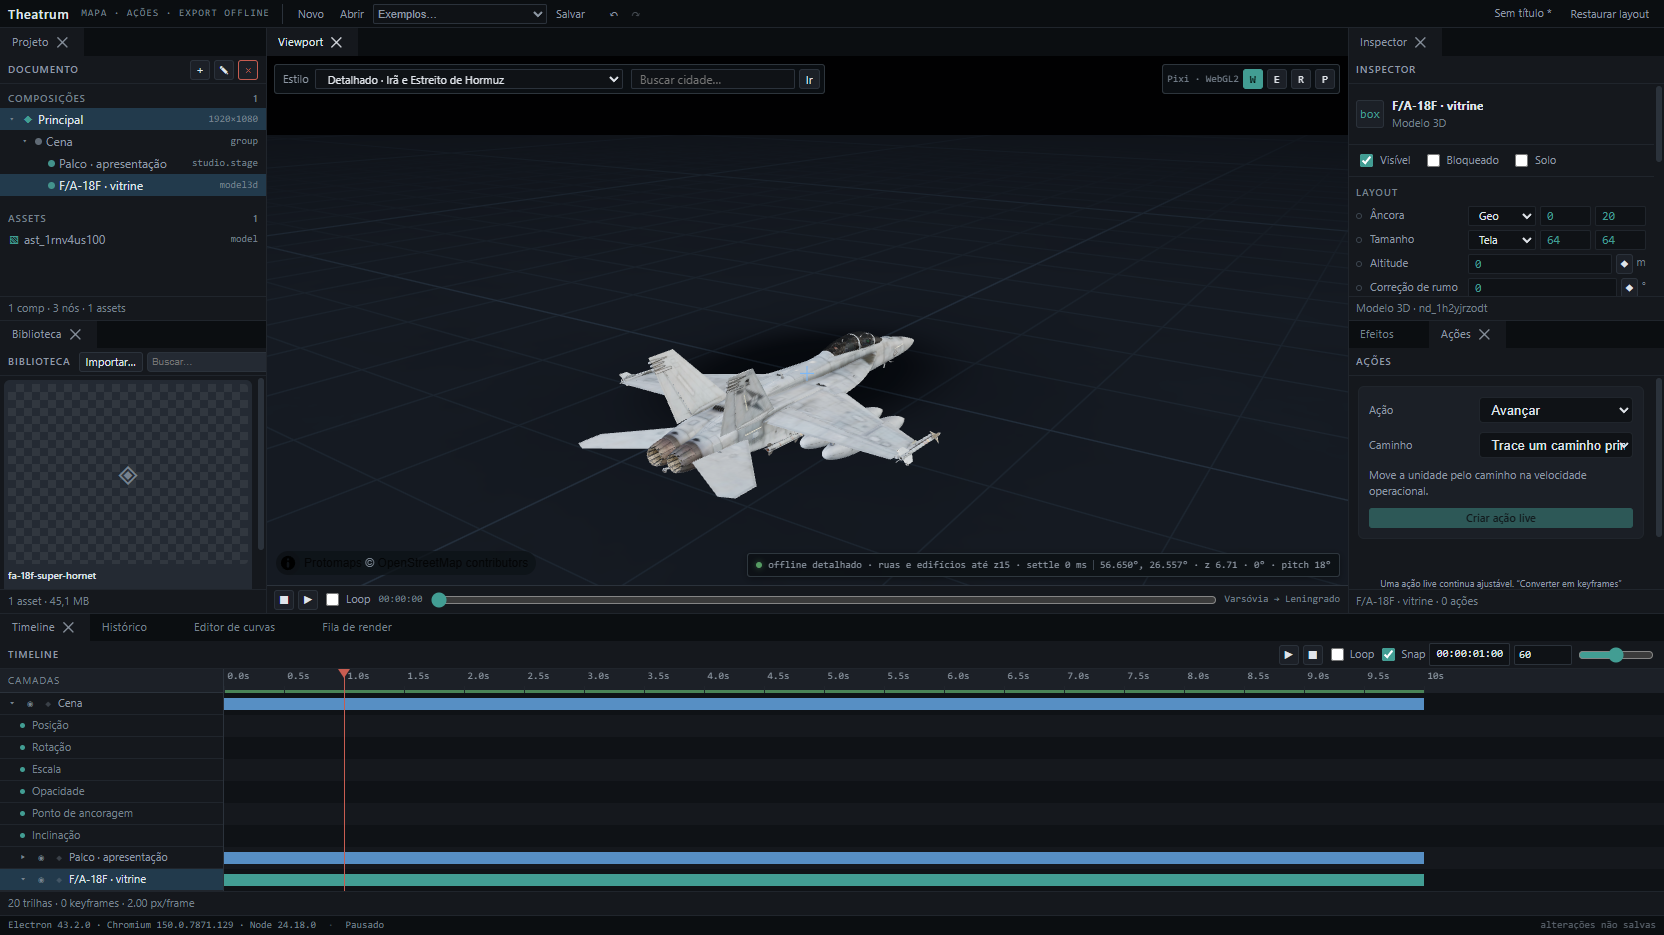
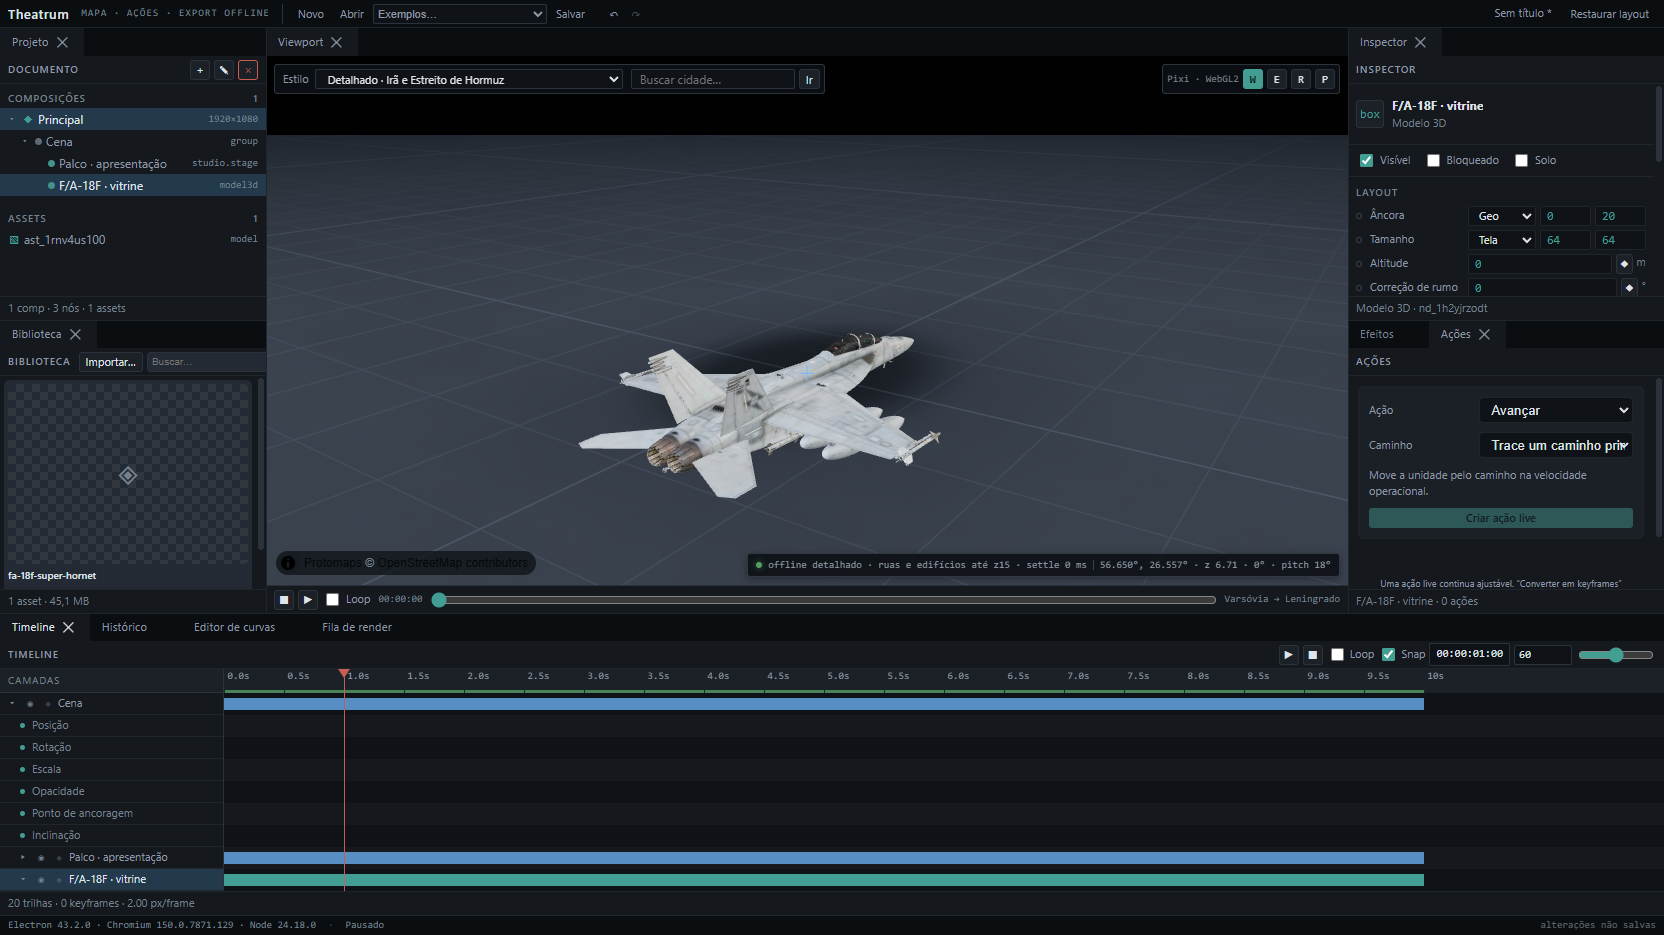
Palco: piso de tom medio, senao a sombra de contato nao le
A sombra do commit anterior funcionava e continuava invisivel. A causa nao era
ela: era o piso.

O padrao #141a22 veio da estetica do mapa, onde o chao e fundo. Luminancia ~10%.
Sombra funciona por contraste, e num piso quase preto nao sobra para onde
escurecer — medido, a sombra escurecia 70.437 px (12,31% da tela) com queda
maxima de 75 em 765, e ainda assim nao se distinguia do ruido do proprio piso.

Vitrine de equipamento nao e fundo de mapa: ali o piso e a superficie em que o
objeto se apoia, e precisa de tom para a sombra assentar nele. Piso #39424f,
grade #5d6f84, fundo #0d1218 — os valores foram escolhidos ao vivo, com o F-18 no
palco, e a poca eliptica passa a aparecer alongada no eixo da fuselagem, com o
halo de penumbra em volta.

Os tres fallbacks duplicados em `studio-grid.ts` e `studio-scene.ts` foram
atualizados junto: default divergente de fallback e o tipo de erro que aparece
so no caminho em que a prop falta.

Changed region(s): [[0.1562, 0.1241, 0.8125, 0.6513], [0.1562, 0.031, 0.1875, 0.062], [0.0, 0.6513, 0.0312, 0.6824]]

diff --git a/apps/editor/src/panels/viewport/studio-grid.ts b/apps/editor/src/panels/viewport/studio-grid.ts
@@ -77,7 +77,7 @@ uniform float uShadowSoftness[${MAX_SHADOWS}];
  * Um RawShaderMaterial escreve no framebuffer sem nenhuma injeção do three: nem
  * tone mapping, nem conversão de espaço de cor. Mas as cores CHEGAM convertidas,
  * porque THREE.Color converte de sRGB para linear ao ler um hex. Sem esta função
- * o chão #141a22 saía como 2/3/4 em vez de 20/26/34 — quase preto — e a grade,
+ * o chão #39424f saía como 2/3/4 em vez de 20/26/34 — quase preto — e a grade,
  * que é uma mistura entre duas cores já escuras, desaparecia junto. O bug não
  * gera erro nenhum: o desenho está lá, só ilegível.
  *
@@ -279,9 +279,9 @@ export function createStudioGrid(): StudioGrid {
   const uniforms = {
     uInverseViewProjection: { value: new THREE.Matrix4() },
     uCameraPosition: { value: new THREE.Vector3() },
-    uFloorColor: { value: new THREE.Color("#141a22") },
-    uGridColor: { value: new THREE.Color("#2f4256") },
-    uHorizonColor: { value: new THREE.Color("#0b0f14") },
+    uFloorColor: { value: new THREE.Color("#39424f") },
+    uGridColor: { value: new THREE.Color("#5d6f84") },
+    uHorizonColor: { value: new THREE.Color("#0d1218") },
     uSpacing: { value: 5 },
     uOpacity: { value: 0.55 },
     uFade: { value: 120 },

diff --git a/packages/scene-graph/src/builtin-node-types.ts b/packages/scene-graph/src/builtin-node-types.ts
@@ -1307,9 +1307,17 @@ export const STUDIO_STAGE_NODE_TYPE = defineNodeType({
     azimuthDeg: animatable(35),
     elevationDeg: animatable(14),
     fovDeg: animatable(38),
-    background: animatable("#0b0f14ff"),
-    floor: animatable("#141a22ff"),
-    gridColor: animatable("#2f4256ff"),
+    background: animatable("#0d1218ff"),
+    // Piso de tom médio, não o quase-preto do fundo do mapa.
+    //
+    // O padrão anterior (#141a22, luminância ~10%) foi herdado da estética do
+    // mapa e tornava a sombra de contato invisível: sombra funciona por
+    // contraste, e num piso já quase preto não sobra para onde escurecer.
+    // Medido no palco — a sombra escurecia 12% da tela e continuava ilegível.
+    // Vitrine de equipamento não é fundo de mapa: o piso é a superfície em que
+    // o objeto se apoia, e precisa de tom para a sombra assentar nele.
+    floor: animatable("#39424fff"),
+    gridColor: animatable("#5d6f84ff"),
     gridSpacingMeters: animatable(5),
     gridOpacity: animatable(0.55),
     keyIntensity: animatable(2.6),

diff --git a/apps/editor/src/panels/viewport/studio-scene.ts b/apps/editor/src/panels/viewport/studio-scene.ts
@@ -87,9 +87,9 @@ export function collectStudioStage(evaluated: EvaluatedScene): StudioStageState 
       azimuthDeg: num(props, "azimuthDeg", 35),
       elevationDeg: num(props, "elevationDeg", 14),
       fovDeg: Math.max(5, Math.min(120, num(props, "fovDeg", 38))),
-      background: str(props, "background", "#0b0f14ff"),
-      floor: str(props, "floor", "#141a22ff"),
-      gridColor: str(props, "gridColor", "#2f4256ff"),
+      background: str(props, "background", "#0d1218ff"),
+      floor: str(props, "floor", "#39424fff"),
+      gridColor: str(props, "gridColor", "#5d6f84ff"),
       gridSpacingMeters: Math.max(0.05, num(props, "gridSpacingMeters", 5)),
       gridOpacity: clamp01(num(props, "gridOpacity", 0.55)),
       keyIntensity: Math.max(0, num(props, "keyIntensity", 2.6)),
